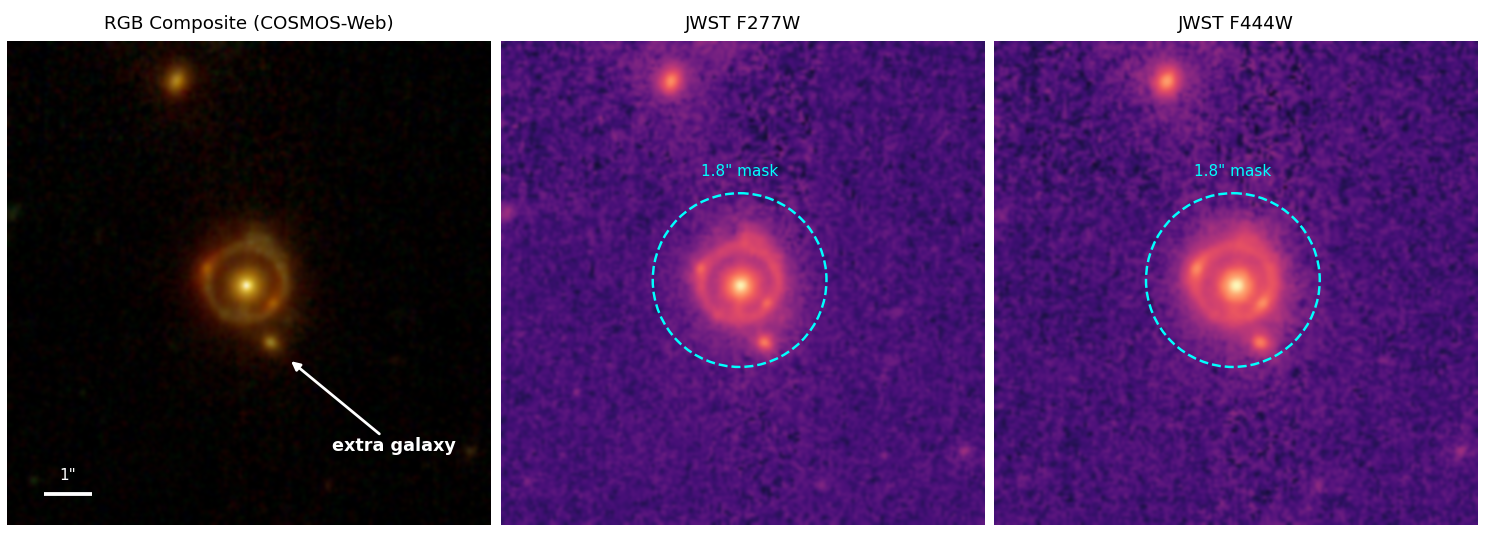
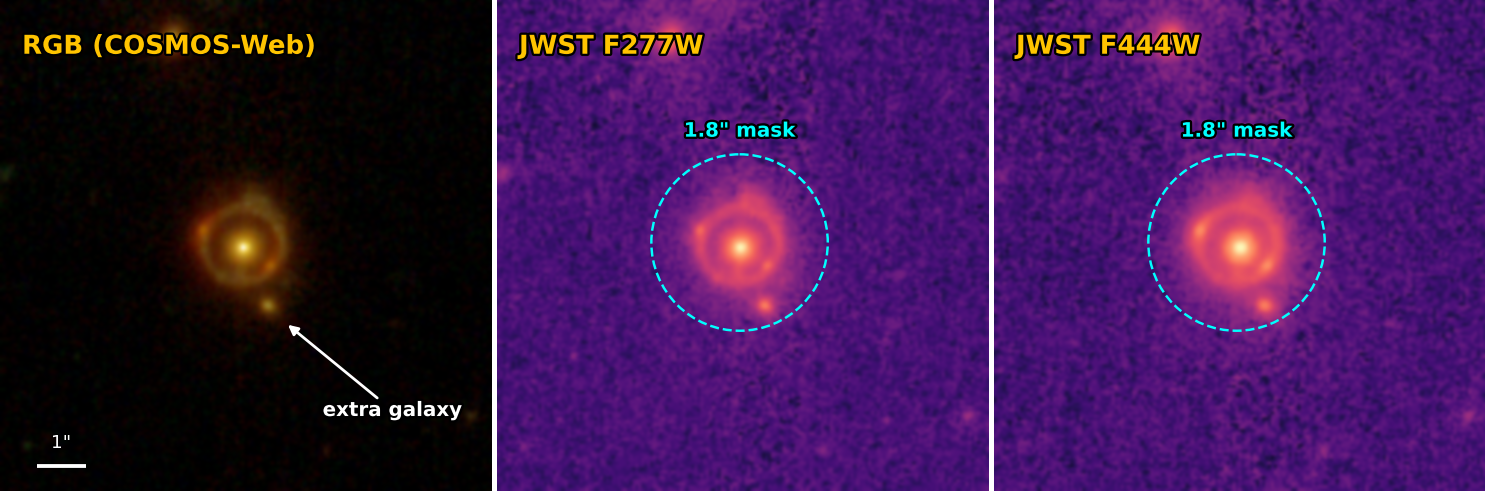
docs: label the ring figure inside its panels
The axis titles were small enough to be a strain at the width the README
displays the figure at, and reserving margin for them put a band of white space
above the images.

Move each label inside its own panel, top-left, in amber with a dark stroke —
readable against both the near-black RGB sky and the magma colour map, and
distinct from the white arrow and cyan mask already annotating the row. The axes
can then run to the figure edge. Panel height is now derived from the width and
gap rather than guessed, which removes the last strip of white along the bottom.

The mask and extra-galaxy labels grow to match, and pick up the same stroke.

diff --git a/docs/make_readme_figures.py b/docs/make_readme_figures.py
@@ -30,6 +30,7 @@ import matplotlib
 matplotlib.use("Agg")
 
 import matplotlib.image as mpimg
+import matplotlib.patheffects as path_effects
 import matplotlib.pyplot as plt
 from matplotlib.patches import Circle
 from pathlib import Path
@@ -104,12 +105,50 @@ bands = {band: load_band(band) for band in BANDS}
 One row of three panels. The RGB keeps its native orientation (top-row-first),
 and the single-band panels are drawn with `origin="upper"` so north is up in all
 three. A 1" scale bar on the first panel sets the physical scale for the row.
+
+Panels are labelled *inside* their own frame rather than with axis titles, which
+lets the row butt right up against the figure edges — no band of white space
+above the images — and leaves room for the label to be set large enough to stay
+readable at the width the README displays it at.
 """
 
-figure, axes = plt.subplots(1, 3, figsize=(13.5, 4.9))
+"""The panels are square, so the figure height is derived rather than guessed:
+three panel widths plus the two hairline gaps must fill the figure width, and
+one panel width is then exactly the height. Guessing it leaves a strip of white
+along one edge."""
+
+FIGURE_WIDTH = 13.5
+PANEL_GAP = 0.012
+
+PANEL_WIDTH = FIGURE_WIDTH / (3.0 + 2.0 * PANEL_GAP)
+
+figure, axes = plt.subplots(1, 3, figsize=(FIGURE_WIDTH, PANEL_WIDTH))
+
+"""Amber reads clearly against both the near-black RGB sky and the magma colour
+map, and stays distinct from the two annotation colours already in play (white
+for the arrow and scale bar, cyan for the mask). The dark stroke keeps it legible
+where a label happens to fall over a bright source."""
+
+LABEL_COLOR = "#ffc400"
+LABEL_STROKE = [path_effects.withStroke(linewidth=3.0, foreground="black")]
+
+
+def panel_label(ax, text):
+    ax.text(
+        7,
+        11,
+        text,
+        color=LABEL_COLOR,
+        fontsize=17,
+        fontweight="bold",
+        ha="left",
+        va="top",
+        path_effects=LABEL_STROKE,
+    )
+
 
 axes[0].imshow(rgb, interpolation="bicubic")
-axes[0].set_title("RGB Composite (COSMOS-Web)", fontsize=12, pad=8)
+panel_label(axes[0], "RGB (COSMOS-Web)")
 
 """The arrow points in from open sky south-east of the ring, so it never crosses
 the lensed emission it is drawing attention to."""
@@ -119,22 +158,25 @@ axes[0].annotate(
     xy=(EXTRA_GALAXY_CENTRE[1] + 5, EXTRA_GALAXY_CENTRE[0] + 5),
     xytext=(133, 141),
     color="white",
-    fontsize=11.5,
+    fontsize=13,
     fontweight="bold",
     ha="center",
+    path_effects=LABEL_STROKE,
     arrowprops=dict(arrowstyle="-|>", color="white", lw=1.8, shrinkA=0, shrinkB=6),
 )
 
 scale_bar_pixels = 1.0 / PIXEL_SCALE
 axes[0].plot(
-    [12, 12 + scale_bar_pixels], [156, 156], color="white", lw=2.5, solid_capstyle="butt"
+    [12, 12 + scale_bar_pixels], [158, 158], color="white", lw=2.5, solid_capstyle="butt"
 )
-axes[0].text(12 + scale_bar_pixels / 2.0, 151, '1"', color="white", fontsize=10, ha="center")
+axes[0].text(
+    12 + scale_bar_pixels / 2.0, 152, '1"', color="white", fontsize=12, ha="center"
+)
 
 for ax, band in zip(axes[1:], BANDS):
 
     ax.imshow(bands[band], origin="upper", cmap="magma", interpolation="bicubic")
-    ax.set_title(f"JWST {band}", fontsize=12, pad=8)
+    panel_label(ax, f"JWST {band}")
 
     ax.add_patch(
         Circle(
@@ -152,8 +194,10 @@ for ax, band in zip(axes[1:], BANDS):
         LENS_CENTRE[0] - MASK_RADIUS_ARCSEC / PIXEL_SCALE - 6,
         f'{MASK_RADIUS_ARCSEC}" mask',
         color="cyan",
-        fontsize=10,
+        fontsize=13,
+        fontweight="bold",
         ha="center",
+        path_effects=LABEL_STROKE,
     )
 
 for ax in axes:
@@ -162,7 +206,11 @@ for ax in axes:
     for spine in ax.spines.values():
         spine.set_visible(False)
 
-figure.subplots_adjust(left=0.005, right=0.995, top=0.94, bottom=0.01, wspace=0.02)
+"""With the labels moved inside the panels there is nothing left to reserve
+margin for, so the axes run to the figure edge and only a hairline gap separates
+the three."""
+
+figure.subplots_adjust(left=0.0, right=1.0, top=1.0, bottom=0.0, wspace=PANEL_GAP)
 """110 dpi gives a ~1500 pixel wide figure — comfortably sharp at the 900 pixel
 width the README displays it at, without the noise-dominated panels bloating the
 committed PNG."""